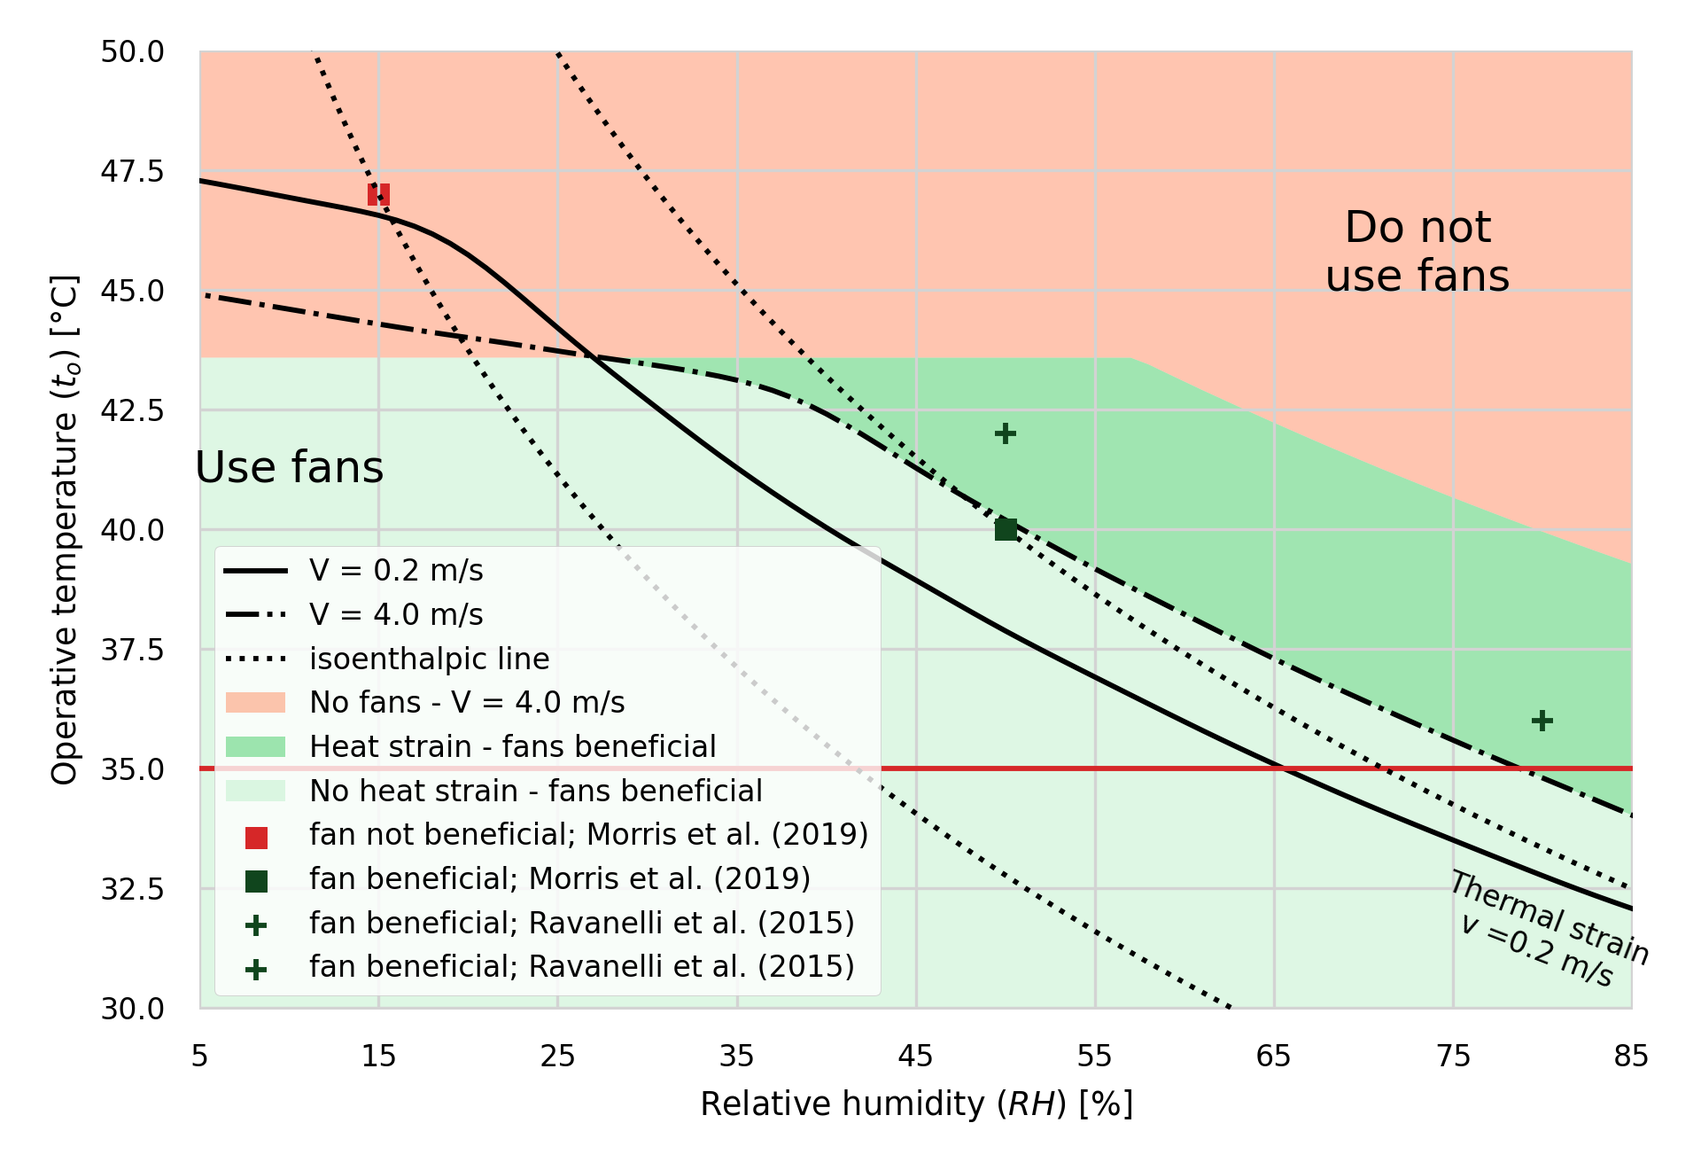
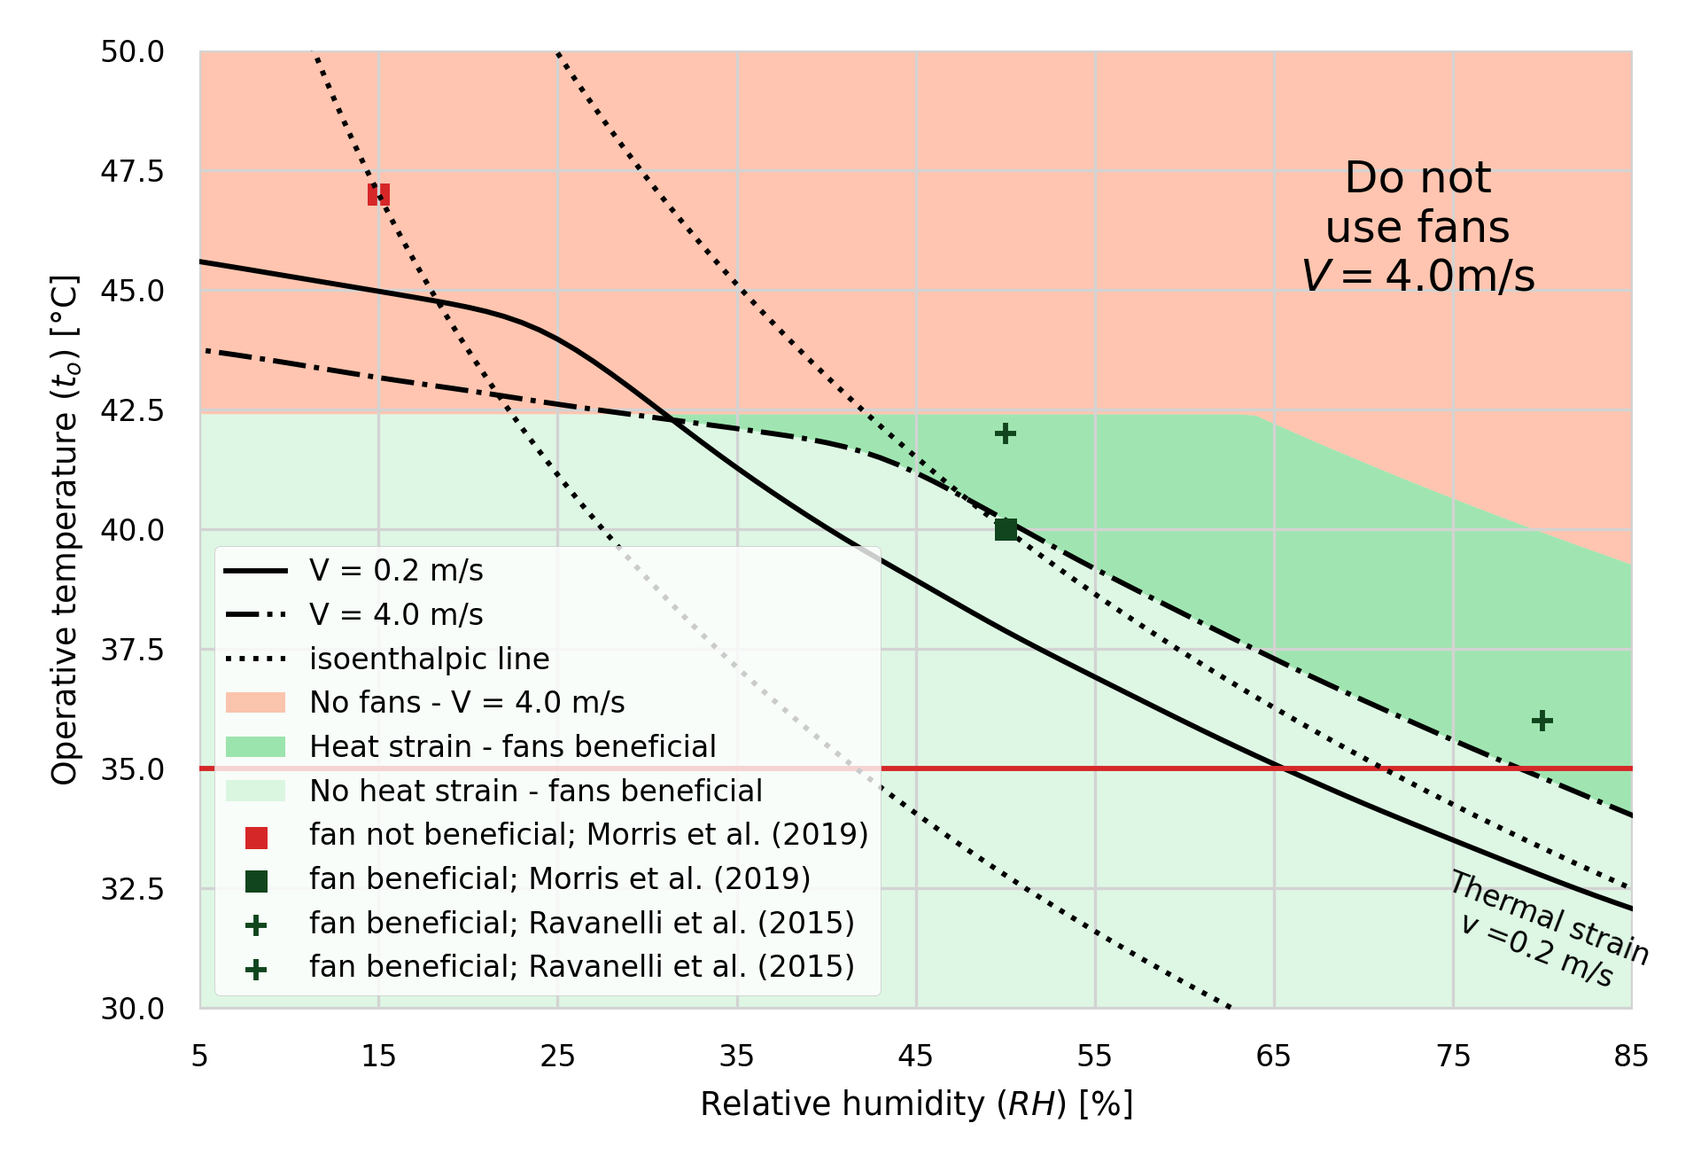
feat: generated new figure based on changes on skin blood flow.

diff --git a/manuscript/src/sections/discussion.tex b/manuscript/src/sections/discussion.tex
@@ -3,8 +3,6 @@
 
 \section{Discussion}\label{sec:discussion}
 
-% todo Ollie Jay: Given that it has just come out, it may be worth contrasting the present findings to the Morris et al 2021 findings, which are more conservative
-
 We used a heat balance model developed by \mycite{GaggeSET} to determine under which environmental and personal conditions the use of electric fans for cooling becomes detrimental for healthy adults.
 We compared our results with those obtained from other physiological models~\cite{Jay2015, iso7933} and empirical results from laboratory-based physiological studies~\cite{Rate2015, Morris2019}.
 Our results show that public health guidelines that discourage fan usage when \ac{t-db} exceeds 35~$^{\circ}$C are too conservative.
@@ -18,12 +16,18 @@ In these conditions, fan use accelerates the development of hyperthermia since s
 We determined that for \ac{t-db} above \var{t_cutoff_v_08}~$^{\circ}$C elevating air speed beyond 0.8~m/s would be detrimental.
 This threshold temperature is inversely proportional to the value of \ac{v}, and it decreases to \var{t_cutoff_v_40}~$^{\circ}$C if an air speed of 4.0~m/s is used to cool the human body.
 Both the \mycite{Jay2015} and the \ac{phs}~\cite{iso7933} models fail to account for this.
-However, as previously noted in Section~\ref{subsec:energy-balance}, the estimation of sensible heat gains using the \mycite{Jay2015} is more conservative since they assume \ac{t-sk} to be constant.
+As previously noted in Section~\ref{subsec:energy-balance}, the estimation of sensible heat gains using the \mycite{Jay2015} is more conservative since they assume \ac{t-sk} to be constant.
 This explains why for \ac{rh} values higher than 25~\% \mycite{GaggeSET} model predicts that thermal strain occurs at higher \ac{t-db} than \mycite{Jay2015} model as detailed in Section~\ref{subsec:heat-stress}.
 We obtained similar results when comparing \mycite{GaggeSET} and PHS models.
 Their results slightly differ in very hot and humid conditions with the latter model discouraging the use of fans for \ac{t-db}~=~37.5~$^{\circ}$C and \ac{rh}~=~85~\%\@.
 However, as shown in Figure~\ref{fig:energy_storage_delta} these conditions are extremely rare worldwide.
 Consequently, we concluded that the \mycite{GaggeSET} model is more appropriate in estimating humidity-dependent temperature thresholds at which electric fans would become detrimental compared with previously proposed models.
+At the time of writing our manuscript~\mycite{Morris2021a} published an article in which they improved on the \mycite{Jay2015} model.
+Despite the fact that \mycite{Morris2021a} used slightly different equations they obtained similar conclusions to those we are presenting.
+However, we believe that readers will benefit from reading our manuscript since we:\
+generated our results using a `more realistic' value for \ac{v} (0.8~m/s instead of 3.5~m/s);\
+have released a web-based tool that allows users to determine how environmental and personal factors affect the humidity-dependent temperature thresholds;\
+and, have published our source code on a public repository.
 
 Electric fans are a cheaper and more energy-efficient alternative to compressor-based air conditioning.
 Fans require less energy to operate, have lower operational and maintenance costs, and do not use refrigerants that potentially harm the environment. 
@@ -47,13 +51,13 @@ Results obtained with \mycite{GaggeSET} model are estimations for standard subje
 The model does not predict the physiological response of a single individual subject, and the recommendations provided in this manuscript are not intended to substitute professional medical advice.
 Consequently, results may not apply to all individuals, such as those who demonstrate sweating impairments due to factors such as age, anticholinergic medications, or other pre-existing conditions that interfere with thermoregulation.
 More empirical evidence is needed to validate the applicability of this model under different environmental conditions and to more vulnerable people for example the elderly.
-In particular, more evidence is needed to estimate the applicability of the \mycite{GaggeSET} model in hot and dry conditions, i.e., \ac{rh} lower than 20~\% and \ac{t-db} higher than 40~$^{\circ}$C.
+In particular, more evidence is needed to estimate the applicability of the \mycite{GaggeSET} model in hot and dry conditions, i.e., \ac{rh} lower than 20~\% and \ac{t-db} higher than 40~$^{\circ}$C.\@
 Since hyperthermia is not the only cause of death during extreme weather events, hot and dry environments can exacerbate cardiovascular strain due to rising skin blood flow~\cite{Morris2021a}.
 While the \mycite{GaggeSET} accounts for this more laboratory-based research is needed to ensure that fan use does not exacerbate cardiovascular strain in healthy adults in the above-mentioned conditions.
 
 \section{Conclusions}\label{sec:conclusions}
 Several health guidelines regarding electric fan use during heat waves appear to underestimate the benefit that air movement has in cooling people when \acf{t-db} exceeds \acf{t-sk}.
-Possibly beacuse they underestimate the amount of heat that the human body can dissipate through the evaporation of sweat.
+Possibly because they underestimate the amount of heat that the human body can dissipate through the evaporation of sweat.
 
 We used a heat balance model to estimate heat losses and physiological variables as a function of environmental and personal factors~\cite{Gagge1986}.
 We were able to determine under which combination of environmental and personal parameters electric fans can be safely and effectively used to cool healthy adults.
@@ -69,9 +73,8 @@ We conclude that the public should therefore not be advised to stop using electr
 As extreme heat events are becoming more frequent in some parts of the world due to the effect of global climate change, public health recommendations regarding electric fan use should be reviewed to help minimize heat wave-related morbidity and mortality.
 
 To help policymakers and people worldwide we incorporated the model into an open-source, free-to-use web-based online tool.
-% todo add also Morris tool
 Our tool allows users to determine when people can safely use elevated air speeds to cool themselves by providing interactive plots and interactively displaying the results to the user
-The tool can be accessed using this link: \url{https://comfort.cbe.berkeley.edu}.
+The link to our online tool is: \url{https://comfort.cbe.berkeley.edu}.
 We also included the source code we used in this manuscript in the Python package \verb|pythermalcomfort|.
 
 \section{Declaration of competing interest}\label{sec:declaration-of-competing-interest}

diff --git a/manuscript/src/sections/results.tex b/manuscript/src/sections/results.tex
@@ -21,8 +21,6 @@ Figure~\ref{fig:comparison_models}A shows how sensible heat loss estimated with 
     \label{fig:comparison_models}
 \end{figure*}
 
-% todo review ollie's results
-
 The former model iteratively determines \ac{t-sk}, while the latter assumes it to be constant and equal to 35~$^{\circ}$C\@, which is equivalent to a fully vasodilated state.
 When heat gains exceed heat losses, the \mycite{GaggeSET} model estimates that some heat energy is stored in the body and consequently \ac{t-sk} increases, as shown in Figure~\ref{fig:results_model_2}A and ~\ref{fig:results_model_2}C, respectively.
 This reduces the rate at which sensible heat gain increases as \ac{t-op} increases.
@@ -62,16 +60,6 @@ When the body can no longer dissipate exogenous and endogenous heat gains, the e
 \subsection{Heat Stress}\label{subsec:heat-stress}
 
 The combination of \ac{t-op}, \ac{rh}, and \ac{v} at which heat stress is predicted to occur is presented in Figure~\ref{fig:comparison_air_speed}.
-
-\begin{figure}[hbt!]
-    \centering
-    \includegraphics[width=0.5\textwidth]{figures/comparison_air_speed}
-    \caption{Predicted limits above which thermal strain is estimated to occur.
-    The figure shows the results calculated using the \mycite{GaggeSET} model and the \mycite{Jay2015} models.
-    Each line demarcates the point above which heat strain is expected to occur.}
-    \label{fig:comparison_air_speed}
-\end{figure}
-
 Each line demarcates the conditions above which not all adult healthy individuals would be able to compensate for endogenous and exogenous heat gains and therefore, if possible, they should avoid being exposed to these conditions.
 The Figure shows the results obtained with both the \mycite{GaggeSET} and the \mycite{Jay2015} models.
 For a specific value of \ac{v}, the maximum \ac{t-op} at which heat strain is estimated to occur decreases as the value of \ac{rh} increases since, as previously shown, the value of \ac{e-max} is inversely proportional to \ac{rh}.
@@ -92,9 +80,26 @@ Results for people wearing light summer clothing (walking shorts, short-sleeve s
 
 \begin{figure}[hbt!]
     \centering
-    \includegraphics[width=0.5\textwidth]{figures/met_clo}
+    \hfill
+    \begin{subfigure}[t]{0.47\textwidth}
+    \centering
+    \includegraphics[width=\textwidth]{figures/comparison_air_speed}
+    \caption{Predicted limits above which thermal strain is estimated to occur.
+    The figure shows the results calculated using the \mycite{GaggeSET} model and the \mycite{Jay2015} models.
+    Each line demarcates the point above which heat strain is expected to occur.}
+    \label{fig:comparison_air_speed}
+    \end{subfigure}
+    \hfill
+    \begin{subfigure}[t]{0.47\textwidth}
+    \centering
+    \includegraphics[width=\textwidth]{figures/met_clo}
     \caption{Each line demarcates how different combinations of personal factors (e.g., \ac{met}, \ac{clo}) and environmental factors affect the point above which the body can no longer dissipate all the endogenous and exogenous heat gains.}
     \label{fig:met_clo}
+    \end{subfigure}
+
+    \caption{Heat strain limits}
+    \label{fig:heat_strain_limits}
+
 \end{figure}
 
 As expected, decreasing both \ac{met} and \ac{clo} has a net positive effect since it reduces both heat gain and thermal resistance, respectively.
@@ -104,12 +109,12 @@ It should, however, be noted that these results are affected by \ac{i-cl}, hence
 
 \subsection{Humidity-dependent temperature thresholds for fan usage}\label{subsec:model-validation-experimental-data}
 
-The environmental conditions above which the use of elevated air speeds would be detrimental according to \mycite{GaggeSET} model are shown in Figure~\ref{fig:use_fans_experimental}.
+The environmental conditions above which the use of elevated air speeds would be detrimental according to \mycite{GaggeSET} for \ac{v}~=~4.0~m/s are shown in Figure~\ref{fig:use_fans_experimental}.
 
 \begin{figure*}[hbt!]
     \centering
     \includegraphics[width=\textwidth]{figures/summary_use_fans_comparison_experimental}
-    \caption{The green areas show the environmental conditions in which the use of fans is beneficial since they provide additional cooling to the human body.
+    \caption{The green areas show the environmental conditions in which the use of fans (\ac{v}~=~4.0~m/s) is beneficial since they provide additional cooling to the human body.
     In the dark green region, while the use of fans is still beneficial, people are most likely to suffer from heat strain.
     The red area demarcates the region in which electric fans should not be used.
     The dotted lines show the isoenthalpic lines passing through the conditions studied by \mycite{Morris2019}.
@@ -147,7 +152,7 @@ It should be noted that these latter conditions are extremely rare worldwide.
 \begin{figure*}[hbt!]
     \centering
     \includegraphics[width=\textwidth]{figures/phs_gagge}
-    \caption{Comparison results obtained with \mycite{GaggeSET} (A) and \ac{phs} models (B).
+    \caption{Comparison results obtained with \mycite{GaggeSET} (A) and \ac{phs} models (B) for \ac{v}~=~0.8~m/s.
     For more information on how to interpret the Figure please refer to the caption of Figure~\ref{fig:use_fans_experimental}.}
     \label{fig:gagge_phs}
 \end{figure*}
@@ -165,7 +170,7 @@ To understand in which locations worldwide the use of electric fans would be ben
 \end{figure*}
 
 We determined that in approximately \var{per_location_fans_beneficial_08}~\% of the locations the use of electric fans that can generate \ac{v} up to 0.8~m/s would be beneficial.
-In \var{per_location_evaporative_cooling}~\% electric fans should not be used unless any form of cooling (including evaporative cooling) is used to pre-cool the air to any point in the green region.
+In the remaining locations electric fans should not be used unless any form of cooling (including evaporative cooling) is used to pre-cool the air to any point in the green region.
 
 To better quantify how many people would benefit from the use of electric fans we combined the city with the weather data.
 The former contained data from the 115 most populous cities worldwide.

diff --git a/code/main.py b/code/main.py
@@ -1287,8 +1287,12 @@ class DataAnalysis:
 
         for rh in rh_arr:
 
+            t_min = 37
+            if rh < 55:
+                t_min = 32.5
+
             try:
-                tmp_low.append(optimize.brentq(function, 32.5, 55))
+                tmp_low.append(optimize.brentq(function, t_min, 55))
             except ValueError:
                 tmp_low.append(np.nan)
 
@@ -1535,6 +1539,15 @@ class DataAnalysis:
 
         ax.scatter(df_queried["rh"], df_queried["db_max"], s=3, c="tab:gray")
 
+        ax.text(
+            0.85,
+            0.75,
+            "Do not\nuse fans\n$V=0.8$m/s",
+            size=12,
+            ha="center",
+            transform=ax.transAxes,
+        )
+
         ax.grid(c="lightgray")
         ax.xaxis.set_ticks_position("none")
         ax.yaxis.set_ticks_position("none")
@@ -1702,6 +1715,15 @@ class DataAnalysis:
             ),
         )
 
+        ax.text(
+            0.85,
+            0.65,
+            "Do not\nuse fans\n$V=0.8$m/s",
+            size=12,
+            ha="center",
+            transform=ax.transAxes,
+        )
+
         ax.set_zorder(ax2.get_zorder() + 1)
         ax.patch.set_visible(False)
 
@@ -1859,18 +1881,18 @@ class DataAnalysis:
             air_speeds=[0.2, 4.0], plot_heat_strain_lines=True
         )
 
-        ax.text(
-            10,
-            41.25,
-            "Use fans",
-            size=12,
-            ha="center",
-            va="center",
-        )
+        # ax.text(
+        #     10,
+        #     41.25,
+        #     r"Use fans $V=4.0$m/s",
+        #     size=12,
+        #     ha="center",
+        #     va="center",
+        # )
         ax.text(
             0.85,
             0.75,
-            "Do not\nuse fans",
+            "Do not\nuse fans\n$V=4.0$m/s",
             size=12,
             ha="center",
             transform=ax.transAxes,
@@ -2026,7 +2048,6 @@ class DataAnalysis:
             color="tab:red",
             alpha=0.2,
             zorder=100,
-            label="No fan - V = 4.5 m/s",
         )
 
         ax[1].fill_between(
@@ -2036,7 +2057,6 @@ class DataAnalysis:
             color="tab:orange",
             alpha=0.2,
             zorder=100,
-            label="No fan - V = 4.5 m/s",
         )
 
         ax[1].fill_between(
@@ -2046,7 +2066,6 @@ class DataAnalysis:
             color="tab:green",
             alpha=0.2,
             zorder=100,
-            label="No fan - V = 4.5 m/s",
         )
 
         ax[1].set(
@@ -2056,9 +2075,9 @@ class DataAnalysis:
         )
 
         ax[1].text(
-            25,
-            37.5,
-            "Use fans",
+            35,
+            38.75,
+            r"Use fans $V=0.8$m/s",
             size=12,
             ha="center",
             va="center",
@@ -2066,7 +2085,7 @@ class DataAnalysis:
         ax[1].text(
             70,
             46,
-            "Do not\nuse fans",
+            "Do not\nuse fans\n$V=0.8$m/s",
             size=12,
             ha="center",
         )
@@ -2075,12 +2094,14 @@ class DataAnalysis:
         ax[1].xaxis.set_ticks_position("none")
         ax[1].yaxis.set_ticks_position("none")
 
-        fig, ax[0] = self.summary_use_fans_two_speeds(fig=fig, ax=ax[0])
+        fig, ax[0] = self.summary_use_fans_two_speeds(
+            fig=fig, ax=ax[0], air_speeds=[0.2, 0.8]
+        )
 
         ax[0].text(
-            25,
-            37.5,
-            "Use fans",
+            35,
+            38.75,
+            r"Use fans $V=0.8$m/s",
             size=12,
             ha="center",
             va="center",
@@ -2088,7 +2109,7 @@ class DataAnalysis:
         ax[0].text(
             70,
             46,
-            "Do not\nuse fans",
+            "Do not\nuse fans\n$V=0.8$m/s",
             size=12,
             ha="center",
         )
@@ -2141,11 +2162,7 @@ def ollie(is_fan_on, ta, rh, is_elderly):
     s_w_lat = 2426
 
     if is_fan_on:
-        r_cl_f = 0.0497
-        r_cl_r = 0.0844
-
-        # todo this is not correct need to use Kerslake 1972
-        r_cl_mean = (r_cl_f + r_cl_r) / 2
+        r_cl_mean = (0.0497 + 0.0844) / 2
 
         v = 4.5
 
@@ -2154,11 +2171,8 @@ def ollie(is_fan_on, ta, rh, is_elderly):
         else:
             w = 0.65
 
-        # todo choose r_cl based on fan on or off
         r_e_cl_f = 0.0112
         r_e_cl_r = 0.0161
-
-        # todo this is not correct
         r_e_cl_mean = (r_e_cl_f + r_e_cl_r) / 2
 
     else:

diff --git a/manuscript/src/sections/methodology.tex b/manuscript/src/sections/methodology.tex
@@ -128,7 +128,6 @@ The value of \ac{q-res} is can be determined using the following simplified equa
 \subsection{Data Analysis}\label{subsec:data-analysis}
 
 The heat balance model was used to estimate sensible and latent heat loss and several physiological parameters (e.g., \ac{m-sweat}, \ac{t-cr}).
-We calculated the results for three discrete values of \ac{v} = 0.2, 0.8 and 4.5~m/s.
 In this paper, we will be referring to `still air' condition when air velocities are below \ac{v}~=~0.2 m/s.
 This definition is in accordance with the ASHRAE 55--2017 Standard~\cite{ashrae552017} and allowed us to compare our results with those obtained by \mycite{Jay2015}.
 We assumed \ac{t-r} to be equal to \ac{t-db}, \ac{clo}~=~0.5~clo, and \ac{met}~=~1.1~met, unless otherwise specified.
@@ -140,6 +139,8 @@ We report heat losses per unit of skin surface area.
 Thermal strain is assumed to occur when either of the following parameters reaches their maximum value: \ac{w}, skin blood flow, or \ac{m-sweat}.
 The former assumption is based on the fact that there is a \ac{w-max} for healthy and acclimatized humans~\cite{ASHRA2017}.
 The other two assumptions are based on the fact that \mycite{GaggeSET} state that serious danger of fatality exists when blood flow from the core to the skin is maximal or sweating reaches its maximum.
+Differently from \mycite{GaggeSET} we assumed the maximum blood flow from the core to the skin to be 80~L/(hm\textsuperscript{2}) and not 90~L/(hm\textsuperscript{2}).
+We selected this value since we wanted to limit the proportion of resting normothermic cardiac output going to the skin to be 40~\% (for blood pressure maintenance) of the resting value for an adult male 6~L/(hm\textsuperscript{2})~\cite{GaggeSET}.
 We assumed that the use of electric fans is detrimental when the value of \ac{t-cr} calculated for values of \ac{v} higher than 0.2~m/s exceeds the value determined for the `still air' condition.
 In addition, we recommend that fans should be turned off for temperatures (irrespective of \ac{rh}) higher than the value of \ac{t-db} at which the thermal heat strain curve at elevated air speeds intersects the for `still air' condition.
 

diff --git a/manuscript/src/sections/introduction.tex b/manuscript/src/sections/introduction.tex
@@ -44,7 +44,7 @@ According to Ready.gov, in these conditions electric fans could increase the ris
 The \ac{cdc} states that when the temperature is in the high 90's ($^{\circ}$F, i.e., above 32~$^{\circ}$C) fans will not prevent heat-related illness~\cite{ExtremeH66:online}.
 Similarly, the \ac{epa} Excessive Heat Events Guidebook discourages directing the flow of fans towards the body when \ac{t-db} is higher than 32.2~$^{\circ}$C~\cite{UnitedStatesEnvironmentalProtectionAgency2006}.
 
-The above recommendations underestimate the evaporative cooling effect of electric fans, ignoring research evidence that healthy adults do in fact benefit from their use when \ac{t-db} is higher than the \ac{t-sk}~\cite{Rate2015, Jay2015, Jay2019a, Rate2015, Gagnon2017} possibly discouraging some people to use the only cooling option that they have available.
+The above recommendations underestimate the evaporative cooling effect of electric fans, ignoring research evidence that healthy adults do in fact benefit from their use when \ac{t-db} is higher than the \ac{t-sk}~\cite{Jay2019a, Rate2015, Jay2015, Gagnon2017} possibly discouraging some people to use the only cooling option that they have available.
 It should also be noted that guidelines such as those provided by Ready.gov, may further worsen conditions for many since they do not only state that fans may not help to prevent heat strain but they also encourage people to turn them off when outside temperatures are higher than 35~$^{\circ}$C\@.
 This not only encourages people to turn electric fans off when their use is still beneficial but is illogical in that fans should not be controlled as a function of the outdoor temperature but solely on indoor environmental conditions. 
 Indoor temperatures are influenced by outdoor conditions but are often different than outdoor temperatures. 

diff --git a/manuscript/src/sections/titleAbstract.tex b/manuscript/src/sections/titleAbstract.tex
@@ -5,8 +5,6 @@
 
 \title{A human energy balance model to determine humidity-dependent temperature thresholds for healthy adults using electric fans during heatwaves}
 
-% todo SS possible journals nature climate change or sustainability; Journal of Exposure Science & Environmental Epidemiology
-
 %% Group authors per affiliation:
 \author[sinBerBest]{Federico Tartarini\corref{mycorrespondingauthor}}
 \ead{federicotartarini@berkeley.edu}
